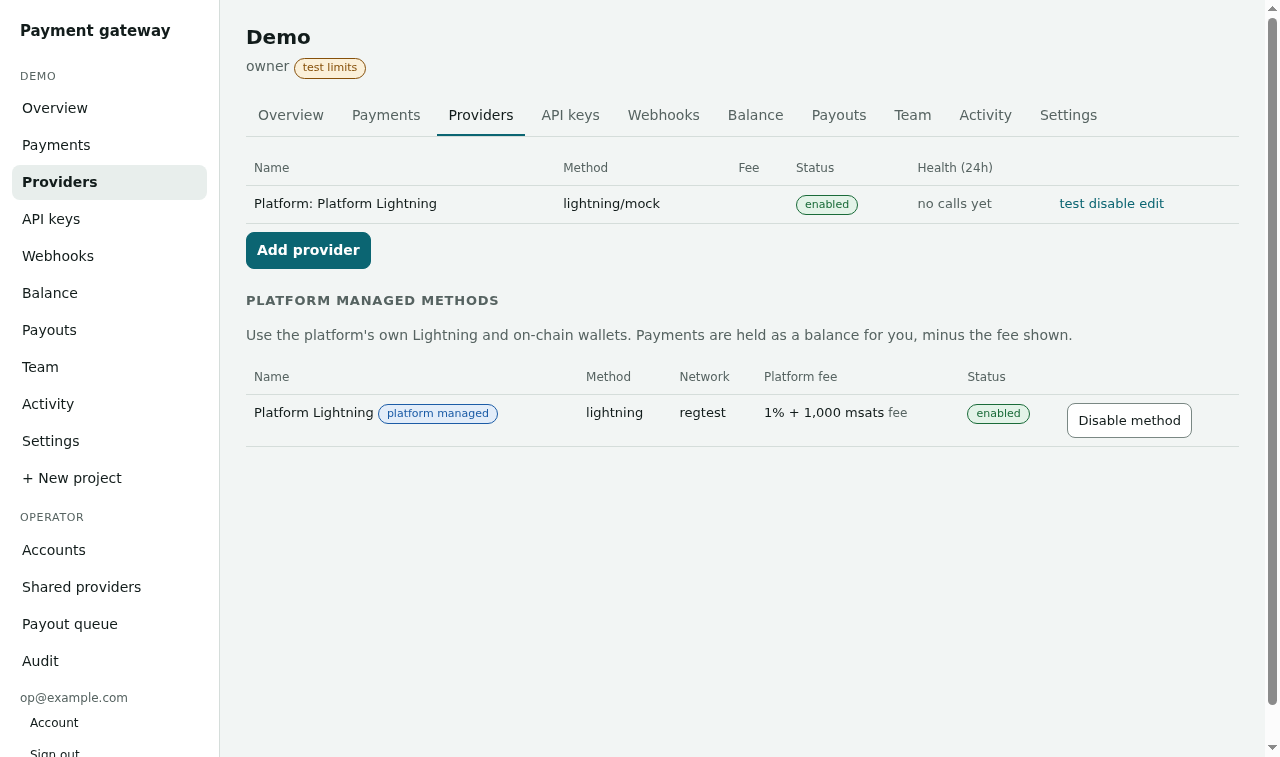
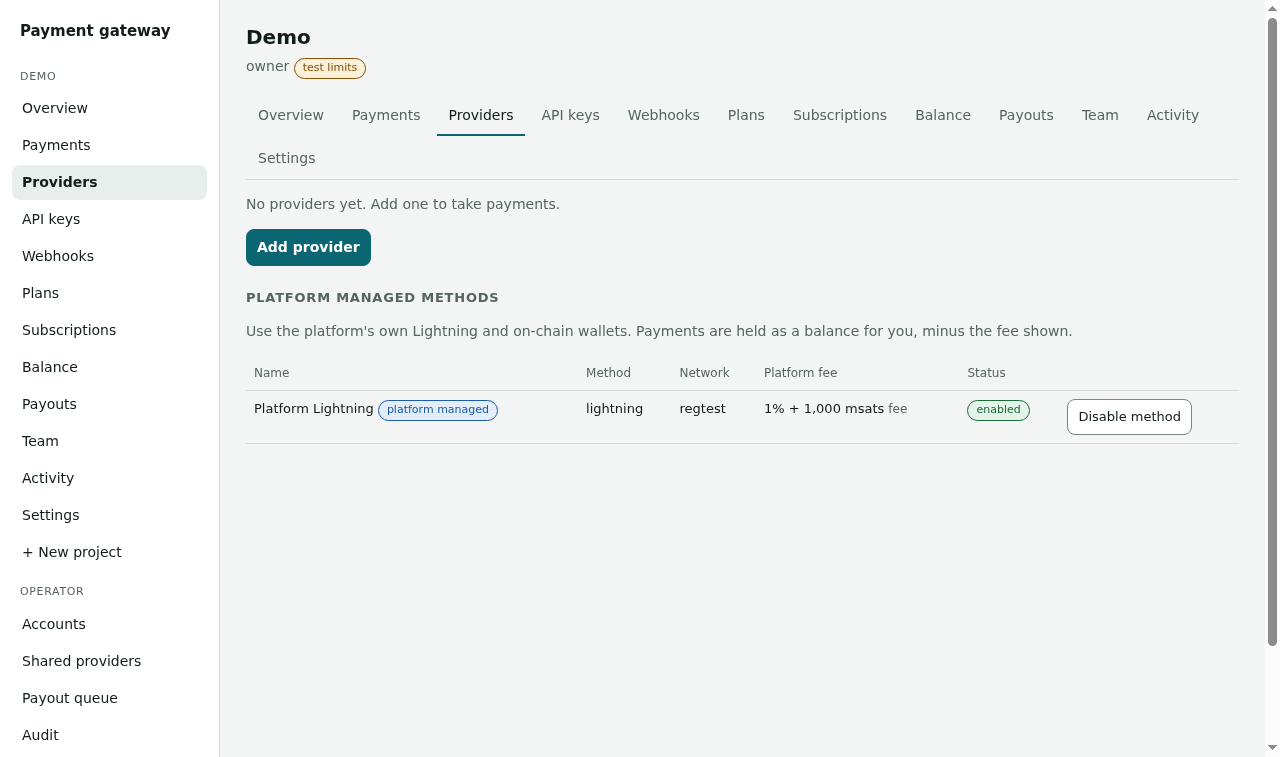
Hide platform wallet rows from tenant provider routes

diff --git a/tests/security.rs b/tests/security.rs
@@ -2146,3 +2146,72 @@ fn sanitizer_redacts_every_secret_key_and_the_certificate() {
     let out = payment_gateway::validate::sanitize_test_error(all, Some(&cfg));
     assert!(!out.contains("MARKER"), "{out}");
 }
+
+#[tokio::test]
+async fn a_tenant_owner_cannot_read_change_test_or_delete_the_platform_wallet_row() {
+    let h = harness().await;
+    let a = project(&h, &unique("a@x.example")).await;
+    let sid = make_shared(&h, "regtest", true, 100).await;
+    let on = a
+        .owner
+        .req(
+            "POST",
+            &format!("/projects/{}/shared/{sid}/enabled", a.id),
+            json!({"enabled": true}),
+        )
+        .await;
+    assert_eq!(on.status, StatusCode::OK, "{}", on.text);
+    let backing = payment_gateway::db::list_provider_configs(&h.pool, a.id, false)
+        .await
+        .unwrap()
+        .into_iter()
+        .find(|c| c.shared_provider_id == Some(sid))
+        .expect("the enabled shared method has a backing row")
+        .id;
+
+    let listed = a
+        .owner
+        .req("GET", &format!("/projects/{}/providers", a.id), Value::Null)
+        .await;
+    assert_eq!(listed.status, StatusCode::OK);
+    assert_eq!(listed.json, json!([]), "{}", listed.text);
+
+    let base = format!("/projects/{}/providers/{backing}", a.id);
+    let body = json!({"method": "lightning", "provider_type": "mock", "name": "x", "config": {"macaroon": "mine"}});
+    for (method, path, body) in [
+        ("GET", base.clone(), Value::Null),
+        ("PUT", base.clone(), body.clone()),
+        ("POST", base.clone(), body),
+        ("DELETE", base.clone(), Value::Null),
+        ("POST", format!("{base}/test"), json!({})),
+        ("POST", format!("{base}/enabled"), json!({"enabled": false})),
+    ] {
+        let r = a.owner.req(method, &path, body).await;
+        assert!(
+            matches!(
+                r.status,
+                StatusCode::FORBIDDEN | StatusCode::NOT_FOUND | StatusCode::METHOD_NOT_ALLOWED
+            ),
+            "{method} {path} gave {}",
+            r.status
+        );
+        assert!(!r.text.contains("sharedsecret"), "{method} {path}");
+        assert!(!r.text.contains("macaroon"), "{method} {path}");
+    }
+
+    let (status, v1) = call(&h.app, "GET", "/v1/providers", Some(&a.key), Value::Null).await;
+    assert!(
+        matches!(status, StatusCode::FORBIDDEN | StatusCode::NOT_FOUND),
+        "{status}"
+    );
+    assert!(!v1.to_string().contains("sharedsecret"));
+
+    let after = payment_gateway::db::get_tenant_provider(&h.pool, a.id, backing)
+        .await
+        .unwrap()
+        .unwrap();
+    assert!(after.enabled);
+    assert_eq!(after.shared_provider_id, Some(sid));
+    let (_, methods) = call(&h.app, "GET", "/v1/methods", Some(&a.key), Value::Null).await;
+    assert!(!methods.to_string().contains("sharedsecret"));
+}

diff --git a/src/api/console/providers.rs b/src/api/console/providers.rs
@@ -59,6 +59,7 @@ pub(super) async fn list_providers(
         db::list_provider_configs(s.pool(), id, false)
             .await?
             .iter()
+            .filter(|p| p.shared_provider_id.is_none())
             .map(|p| {
                 provider_view(
                     &s,
@@ -174,9 +175,7 @@ pub(super) async fn update_provider(
         .await?
         .ok_or_else(ApiError::not_found)?;
     if row.shared_provider_id.is_some() {
-        return Err(ApiError::bad_request(
-            "platform managed methods are changed from the shared methods list",
-        ));
+        return Err(ApiError::not_found());
     }
     if req.method != row.method || req.provider_type != row.provider_type {
         return Err(ApiError::bad_request(
@@ -247,9 +246,7 @@ pub(super) async fn set_provider_enabled(
         .await?
         .ok_or_else(ApiError::not_found)?;
     if current.shared_provider_id.is_some() {
-        return Err(ApiError::bad_request(
-            "platform managed methods are changed from the shared methods list",
-        ));
+        return Err(ApiError::not_found());
     }
     if !db::set_provider_config_enabled(s.pool(), id, pid, e.enabled).await? {
         return Err(ApiError::not_found());
@@ -281,6 +278,9 @@ pub(super) async fn remove_provider(
     let removed = db::get_tenant_provider(s.pool(), id, pid)
         .await?
         .ok_or_else(ApiError::not_found)?;
+    if removed.shared_provider_id.is_some() {
+        return Err(ApiError::not_found());
+    }
     if db::provider_attempt_count(s.pool(), pid).await? > 0 {
         return Err(ApiError::new(
             StatusCode::CONFLICT,
@@ -308,6 +308,9 @@ pub(super) async fn test_provider(
     let row = db::get_tenant_provider(s.pool(), id, pid)
         .await?
         .ok_or_else(ApiError::not_found)?;
+    if row.shared_provider_id.is_some() {
+        return Err(ApiError::not_found());
+    }
     let config = s.service.registry.open_config(&row).ok();
     let outcome = match s.service.registry.get(pid).await {
         Ok(provider) => provider.test_connection().await,
